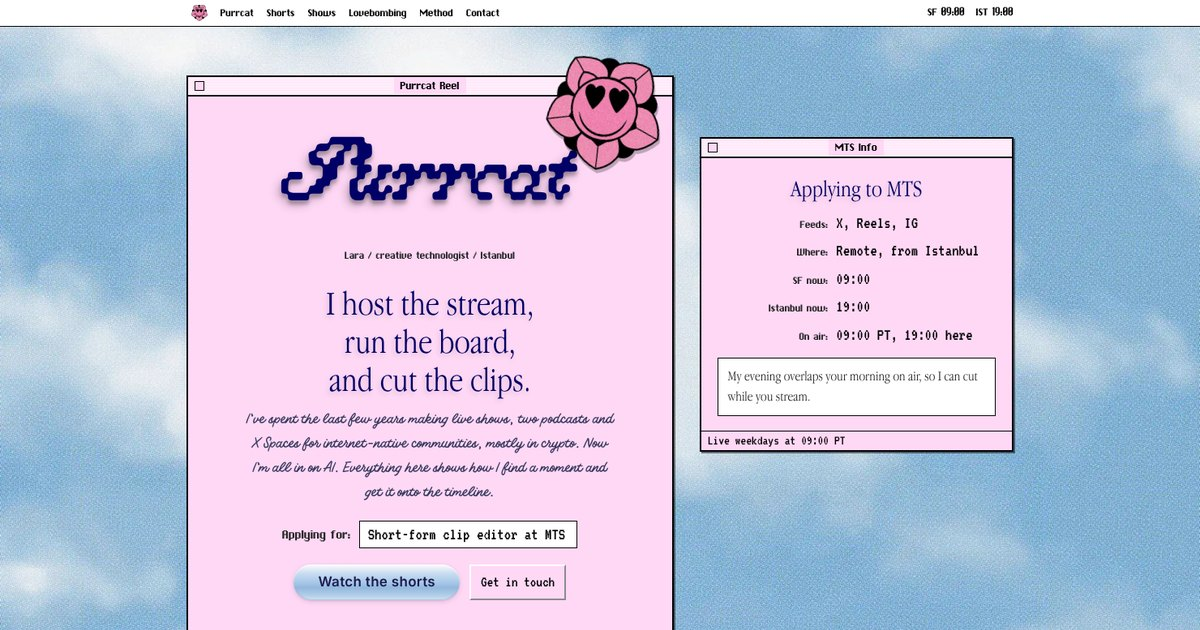
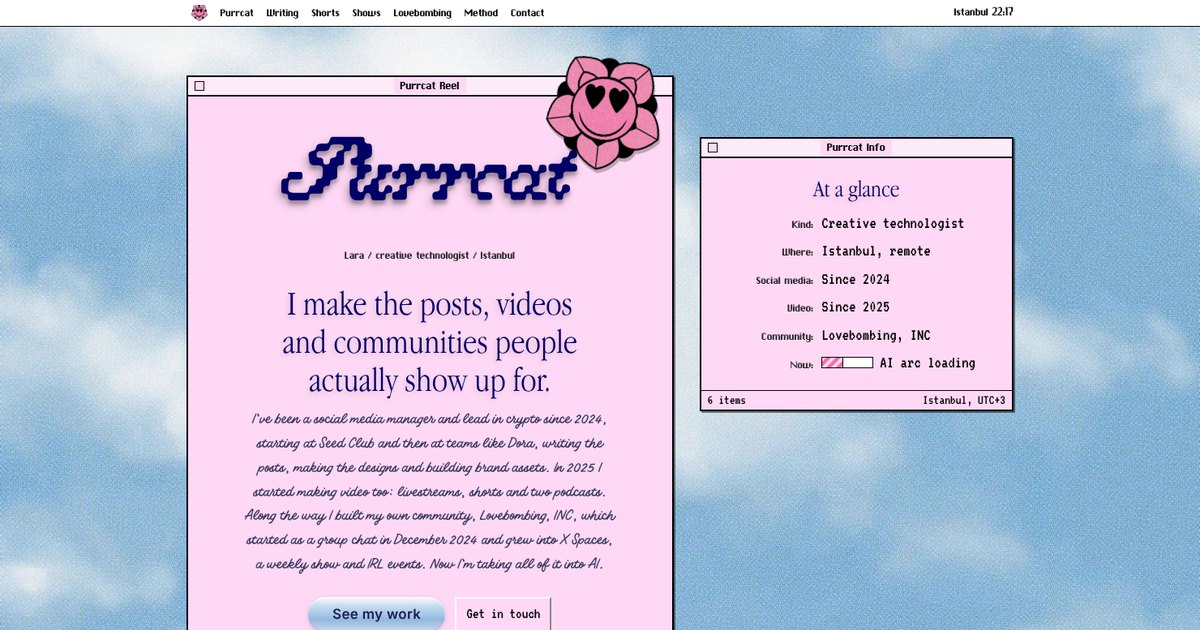
Make the site a general portfolio
Remove the MTS application parts and the clip offer, rewrite the intro, add a general At a glance panel, add a Writing section with Substack posts near the top, make the method section general, drop the Sai line, end with contact info, and refresh the link preview image.

Claude-Session: https://claude.ai/code/session_012vLfLktoEVwbfYkYAVud5t

diff --git a/index.html b/index.html
@@ -4,18 +4,18 @@
 <meta charset="utf-8">
 <meta name="viewport" content="width=device-width, initial-scale=1, viewport-fit=cover">
 <title>Purrcat Reel</title>
-<meta name="description" content="Shorts, shows, podcasts and the Lovebombing app by Purrcat, a creative technologist in Istanbul.">
+<meta name="description" content="Social media, writing, video, podcasts and community building by Purrcat, a creative technologist in Istanbul.">
 <link rel="canonical" href="https://agentic-scenester.vercel.app/">
 <meta property="og:type" content="website">
 <meta property="og:url" content="https://agentic-scenester.vercel.app/">
 <meta property="og:title" content="Purrcat Reel">
-<meta property="og:description" content="Shorts, shows, podcasts and the Lovebombing app by Purrcat, a creative technologist in Istanbul.">
+<meta property="og:description" content="Social media, writing, video, podcasts and community building by Purrcat, a creative technologist in Istanbul.">
 <meta property="og:image" content="https://agentic-scenester.vercel.app/assets/og.jpg">
 <meta property="og:image:width" content="1200">
 <meta property="og:image:height" content="630">
 <meta name="twitter:card" content="summary_large_image">
 <meta name="twitter:title" content="Purrcat Reel">
-<meta name="twitter:description" content="Shorts, shows, podcasts and the Lovebombing app by Purrcat, a creative technologist in Istanbul.">
+<meta name="twitter:description" content="Social media, writing, video, podcasts and community building by Purrcat, a creative technologist in Istanbul.">
 <meta name="twitter:image" content="https://agentic-scenester.vercel.app/assets/og.jpg">
 <meta name="theme-color" content="#87CEEB">
 <link rel="icon" type="image/png" href="assets/favicon.png">
@@ -301,7 +301,7 @@ img { max-width: 100%; }
 .who { margin: -2px 0 0; font-family: var(--font-chrome); font-size: 15px; color: var(--line); }
 .headline {
   margin: 6px 0 0;
-  max-width: 20ch;
+  max-width: 22ch;
   font-family: var(--font-serif);
   font-size: clamp(29px, 3.9vw, 43px);
   line-height: 1.1;
@@ -323,7 +323,7 @@ img { max-width: 100%; }
   text-shadow: -2px 3px 6px var(--shade-faint);
 }
 .info { margin: 0; display: grid; gap: 8px; }
-.info > div { display: grid; grid-template-columns: 7.6em minmax(0, 1fr); gap: 10px; align-items: baseline; }
+.info > div { display: grid; grid-template-columns: 6.6em minmax(0, 1fr); gap: 10px; align-items: baseline; }
 .info dt { font-family: var(--font-chrome); font-size: 15px; color: var(--line); text-align: right; }
 .info dd { margin: 0; font-family: var(--font-pixel); font-size: 21px; line-height: 1.15; color: var(--ink); overflow-wrap: anywhere; font-variant-numeric: tabular-nums; }
 .info-note { margin: 0; padding: 10px 12px; background: var(--paper); border: 1px solid var(--ink); font-size: 17px; line-height: 1.45; }
@@ -333,7 +333,7 @@ img { max-width: 100%; }
 .tl {
   display: grid;
   grid-template-columns: 44px minmax(0, 1fr);
-  grid-template-rows: 34px repeat(4, 36px);
+  grid-template-rows: 34px repeat(5, 36px);
   background: var(--paper);
 }
 .lab {
@@ -404,6 +404,7 @@ img { max-width: 100%; }
   white-space: nowrap;
 }
 .clip:hover { box-shadow: inset 0 0 0 1px var(--ink); }
+.clip.dark { color: var(--paper); }
 .clip.on { background: var(--ink); color: var(--paper); }
 .overlay { grid-column: 2; grid-row: 1 / -1; position: relative; z-index: 3; pointer-events: none; }
 .playhead { position: absolute; top: 0; bottom: 0; left: 0; width: 2px; margin-left: -1px; background: var(--hot); }
@@ -464,6 +465,55 @@ img { max-width: 100%; }
 .role { margin: 0; font-family: var(--font-chrome); font-size: 14px; color: var(--line); }
 .desc { margin: 0; font-size: 17px; line-height: 1.5; }
 .links { display: flex; flex-wrap: wrap; gap: 8px; margin-top: auto; padding-top: 8px; }
+
+/* Writing */
+.feature { display: grid; gap: 8px; padding: 18px 18px 20px; background: var(--paper); border: 1px solid var(--ink); box-shadow: 2px 2px 0 var(--shade-soft); }
+.feature h3 { margin: 0; font-family: var(--font-serif); font-size: clamp(27px, 3.6vw, 38px); line-height: 1.08; color: var(--navy); text-wrap: balance; }
+.feature h3 a { text-decoration: none; }
+.feature h3 a:hover { text-decoration: underline; text-decoration-thickness: 1px; text-underline-offset: 4px; }
+.feature .desc { max-width: 60ch; }
+.feature .links { padding-top: 6px; }
+.finder { margin-top: 18px; background: var(--paper); border: 1px solid var(--ink); box-shadow: 2px 2px 0 var(--shade-soft); }
+.flist { list-style: none; margin: 0; padding: 0; }
+.flist li + li .frow { border-top: 1px solid var(--mac-light); }
+.frow {
+  display: grid;
+  grid-template-columns: minmax(0, 1fr) 8.6em 7.4em 4.2em;
+  gap: 14px;
+  align-items: baseline;
+  padding: 11px 14px;
+  color: var(--text);
+  text-decoration: none;
+}
+.fhead { padding-block: 4px; background: var(--mac-light); border-bottom: 1px solid var(--ink); font-family: var(--font-chrome); font-size: 14px; color: var(--ink); }
+.fname { min-width: 0; font-size: 19px; line-height: 1.3; color: var(--navy); }
+.fsub { display: block; margin-top: 2px; font-size: 15px; line-height: 1.4; color: var(--prose); }
+.fkind, .fdate, .fread { font-family: var(--font-pixel); font-size: 18px; line-height: 1.2; white-space: nowrap; color: var(--line); font-variant-numeric: tabular-nums; }
+.fread { text-align: right; }
+a.frow:hover, a.frow:focus-visible { background: var(--navy); outline: none; }
+a.frow:hover span, a.frow:focus-visible span { color: var(--paper); }
+@media (max-width: 640px) {
+  .fhead { display: none; }
+  .frow { grid-template-columns: minmax(0, 1fr) auto; row-gap: 4px; }
+  .fname { grid-column: 1 / -1; }
+  .fkind { display: none; }
+}
+
+/* AI arc progress bar */
+.arc { display: inline-flex; align-items: center; gap: 8px; flex-wrap: wrap; }
+.arc-bar { position: relative; display: inline-block; width: 64px; height: 14px; background: var(--paper); border: 1px solid var(--ink); overflow: hidden; }
+.arc-bar i {
+  position: absolute;
+  top: 0;
+  bottom: 0;
+  left: 0;
+  width: 42%;
+  border-right: 1px solid var(--ink);
+  background-image: linear-gradient(-45deg, var(--hot) 25%, var(--window) 25%, var(--window) 50%, var(--hot) 50%, var(--hot) 75%, var(--window) 75%);
+  background-size: 12px 12px;
+  animation: arc 1.4s linear infinite;
+}
+@keyframes arc { from { background-position: 0 0; } to { background-position: 12px 0; } }
 
 /* Lovebombing pair */
 .pair { display: grid; gap: clamp(36px, 6vw, 56px); align-items: start; margin-top: clamp(36px, 6vw, 56px); }
@@ -531,6 +581,7 @@ img { max-width: 100%; }
 /* Off the timeline */
 .off { display: grid; gap: 18px; }
 @media (min-width: 760px) { .off { grid-template-columns: repeat(2, minmax(0, 1fr)); } }
+.off.one { grid-template-columns: minmax(0, 1fr); max-width: 760px; }
 .off > div { display: grid; gap: 8px; align-content: start; min-width: 0; padding: 16px; background: var(--paper); border: 1px solid var(--ink); box-shadow: 2px 2px 0 var(--shade-soft); }
 .off h3 { margin: 0; font-family: var(--font-serif); font-size: 24px; line-height: 1.15; color: var(--navy); }
 .off .links { margin-top: 2px; padding-top: 0; }
@@ -556,6 +607,7 @@ img { max-width: 100%; }
   html { scroll-behavior: auto; }
   .win { animation: none; }
   .caret { animation: none; }
+  .arc-bar i { animation: none; }
 }
 </style>
 </head>
@@ -567,15 +619,15 @@ img { max-width: 100%; }
     <a class="mb-logo" href="#top" aria-label="Back to top"><img src="assets/flower.webp" alt="" width="520" height="512"></a>
     <div class="mb-items">
       <a class="mb-hide-sm" href="#top">Purrcat</a>
+      <a href="#writing">Writing</a>
       <a href="#shorts">Shorts</a>
-      <a href="#shows">Shows</a>
+      <a class="mb-hide-sm" href="#shows">Shows</a>
       <a href="#lovebombing">Lovebombing</a>
       <a class="mb-hide-sm" href="#method">Method</a>
       <a href="#contact">Contact</a>
     </div>
-    <div class="mb-clock" aria-label="Time in San Francisco and Istanbul">
-      <span>SF <span id="mb-sf">--:--</span></span>
-      <span>IST <span id="mb-ist">--:--</span></span>
+    <div class="mb-clock" aria-label="Time in Istanbul">
+      <span>Istanbul <span id="mb-ist">--:--</span></span>
     </div>
   </nav>
 </header>
@@ -589,33 +641,29 @@ img { max-width: 100%; }
           <img class="sticker" src="assets/flower.webp" alt="" width="520" height="512">
           <h1 class="wordmark" id="h-top">Purrcat</h1>
           <p class="who">Lara / creative technologist / Istanbul</p>
-          <p class="headline">I host the stream, run the board, and cut the clips.</p>
-          <p class="lede">I’ve spent the last few years making live shows, two podcasts and X Spaces for internet-native communities, mostly in crypto. Now I’m all in on AI. Everything here shows how I find a moment and get it onto the timeline.</p>
-          <div class="fieldrow">
-            <span class="flabel">Applying for:</span>
-            <span class="field">Short-form clip editor at MTS<i class="caret" aria-hidden="true"></i></span>
-          </div>
+          <p class="headline">I make the posts, videos and communities people actually show up for.</p>
+          <p class="lede">I’ve been a social media manager and lead in crypto since 2024, starting at Seed Club and then at teams like Dora, writing the posts, making the designs and building brand assets. In 2025 I started making video too: livestreams, shorts and two podcasts. Along the way I built my own community, Lovebombing, INC, which started as a group chat in December 2024 and grew into X Spaces, a weekly show and IRL events. Now I’m taking all of it into AI.</p>
           <div class="actions">
-            <a class="aqua" href="#shorts">Watch the shorts</a>
+            <a class="aqua" href="#writing">See my work</a>
             <a class="mbtn" href="#contact">Get in touch</a>
           </div>
         </div>
       </section>
 
       <aside class="win win-info" aria-labelledby="h-info">
-        <div class="tbar" aria-hidden="true"><i class="box"></i><span>MTS Info</span><i class="box ghost"></i></div>
+        <div class="tbar" aria-hidden="true"><i class="box"></i><span>Purrcat Info</span><i class="box ghost"></i></div>
         <div class="info-body">
-          <h2 class="info-h" id="h-info">Applying to MTS</h2>
+          <h2 class="info-h" id="h-info">At a glance</h2>
           <dl class="info">
-            <div><dt>Feeds:</dt><dd>X, Reels, IG</dd></div>
-            <div><dt>Where:</dt><dd>Remote, from Istanbul</dd></div>
-            <div><dt>SF now:</dt><dd id="t-sf">--:--</dd></div>
-            <div><dt>Istanbul now:</dt><dd id="t-ist">--:--</dd></div>
-            <div><dt>On air:</dt><dd>09:00 PT, <span id="air-ist">19:00</span> here</dd></div>
+            <div><dt>Kind:</dt><dd>Creative technologist</dd></div>
+            <div><dt>Where:</dt><dd>Istanbul, remote</dd></div>
+            <div><dt>Social media:</dt><dd>Since 2024</dd></div>
+            <div><dt>Video:</dt><dd>Since 2025</dd></div>
+            <div><dt>Community:</dt><dd>Lovebombing, INC</dd></div>
+            <div><dt>Now:</dt><dd><span class="arc"><span class="arc-bar" aria-hidden="true"><i></i></span>AI arc loading</span></dd></div>
           </dl>
-          <p class="info-note">My evening overlaps your morning on air, so I can cut while you stream.</p>
         </div>
-        <div class="sbar"><span>Live weekdays at 09:00 PT</span></div>
+        <div class="sbar"><span>6 items</span><span>Istanbul, UTC+3</span></div>
       </aside>
     </div>
 
@@ -631,28 +679,32 @@ img { max-width: 100%; }
           <span class="tick" style="--x:66.6667" aria-hidden="true">00:40</span>
           <span class="tick minor" style="--x:83.3333" aria-hidden="true">00:50</span>
           <span class="tick last" style="--x:100" aria-hidden="true">01:00</span>
-          <a class="mark" href="#method" style="--x:20" aria-label="Moment marker: how I'd cut MTS"></a>
-          <a class="mark" href="#method" style="--x:62" aria-label="Moment marker: how I'd cut MTS"></a>
-          <a class="mark" href="#method" style="--x:76" aria-label="Moment marker: how I'd cut MTS"></a>
+          <a class="mark" href="#method" style="--x:18" aria-label="Moment marker: how I work"></a>
+          <a class="mark" href="#method" style="--x:50" aria-label="Moment marker: how I work"></a>
+          <a class="mark" href="#method" style="--x:78" aria-label="Moment marker: how I work"></a>
         </div>
 
-        <div class="lab" style="grid-row:2">V2</div>
+        <div class="lab" style="grid-row:2">T1</div>
         <div class="lane" style="grid-row:2">
-          <a class="clip" href="#shorts" style="--s:6;--e:34;--tc:var(--hot)" data-s="6" data-e="34">Shorts</a>
-          <a class="clip" href="#lovebombing" style="--s:54;--e:72;--tc:var(--window)" data-s="54" data-e="72">App</a>
+          <a class="clip dark" href="#writing" style="--s:6;--e:28;--tc:var(--navy)" data-s="6" data-e="28">Writing</a>
         </div>
-        <div class="lab" style="grid-row:3">V1</div>
+        <div class="lab" style="grid-row:3">V2</div>
         <div class="lane" style="grid-row:3">
-          <a class="clip" href="#shows" style="--s:30;--e:52;--tc:var(--steel)" data-s="30" data-e="52">Shows</a>
-          <a class="clip" href="#offline" style="--s:80;--e:100;--tc:var(--mac-silver)" data-s="80" data-e="100">IRL</a>
+          <a class="clip" href="#shorts" style="--s:26;--e:42;--tc:var(--hot)" data-s="26" data-e="42">Shorts</a>
+          <a class="clip" href="#lovebombing" style="--s:58;--e:74;--tc:var(--window)" data-s="58" data-e="74">App</a>
         </div>
-        <div class="lab" style="grid-row:4">A1</div>
+        <div class="lab" style="grid-row:4">V1</div>
         <div class="lane" style="grid-row:4">
-          <a class="clip" href="#shows" style="--s:32;--e:54;--tc:var(--sky)" data-s="32" data-e="54">Podcasts</a>
+          <a class="clip" href="#shows" style="--s:40;--e:56;--tc:var(--steel)" data-s="40" data-e="56">Shows</a>
+          <a class="clip" href="#offline" style="--s:82;--e:96;--tc:var(--mac-silver)" data-s="82" data-e="96">IRL</a>
         </div>
-        <div class="lab" style="grid-row:5">A2</div>
+        <div class="lab" style="grid-row:5">A1</div>
         <div class="lane" style="grid-row:5">
-          <a class="clip" href="#lovebombing" style="--s:50;--e:70;--tc:var(--window)" data-s="50" data-e="70">Spaces</a>
+          <a class="clip" href="#shows" style="--s:42;--e:58;--tc:var(--sky)" data-s="42" data-e="58">Podcasts</a>
+        </div>
+        <div class="lab" style="grid-row:6">A2</div>
+        <div class="lane" style="grid-row:6">
+          <a class="clip" href="#lovebombing" style="--s:54;--e:72;--tc:var(--window)" data-s="54" data-e="72">Spaces</a>
         </div>
 
         <div class="overlay" aria-hidden="true"><div class="playhead" id="playhead"></div></div>
@@ -662,6 +714,36 @@ img { max-width: 100%; }
   </div>
 
   <div class="wrap">
+    <section class="win sec" id="writing" aria-labelledby="h-writing">
+      <div class="tbar" aria-hidden="true"><i class="box"></i><span>Purrcat Purring</span><i class="box ghost"></i></div>
+      <div class="sec-body">
+        <header class="sec-head">
+          <h2 id="h-writing">Writing</h2>
+          <p class="sec-intro">Essays and short pieces on AI, work, creativity and life in between, from my Substack, Purrcat Purring.</p>
+        </header>
+        <article class="feature">
+          <p class="role">Featured essay / Apr 22, 2026 / 13 min read</p>
+          <h3><a href="https://purrcat.substack.com/p/having-a-job-like-rick-rubin-in-the" target="_blank" rel="noopener">AI and learning how to dream again</a></h3>
+          <p class="desc">On the genie lamp problem, the death of the how, and why knowing what you want is the only skill left.</p>
+          <div class="links"><a class="aqua" href="https://purrcat.substack.com/p/having-a-job-like-rick-rubin-in-the" target="_blank" rel="noopener">Read the essay</a></div>
+        </article>
+        <div class="finder">
+          <div class="frow fhead" aria-hidden="true"><span>Name</span><span>Kind</span><span>Date</span><span>Read</span></div>
+          <ul class="flist" aria-label="More posts from Purrcat Purring">
+            <li><a class="frow" href="https://purrcat.substack.com/p/summer-rain-with-commas-and-the-earthy" target="_blank" rel="noopener"><span class="fname">Summer rain with commas and the earthy smell after the rain</span><span class="fkind">Short piece</span><span class="fdate">Jul 4, 2026</span><span class="fread">3 min</span></a></li>
+            <li><a class="frow" href="https://purrcat.substack.com/p/on-what-sings-and-untouched" target="_blank" rel="noopener"><span class="fname">On what sings and “Untouched”<span class="fsub">About the music of my life</span></span><span class="fkind">Short piece</span><span class="fdate">Jul 3, 2026</span><span class="fread">1 min</span></a></li>
+            <li><a class="frow" href="https://purrcat.substack.com/p/nothing-new-can-find-you-while-your" target="_blank" rel="noopener"><span class="fname">Nothing new can find you while your hands are full<span class="fsub">On quitting, sunk cost fallacy, and why manifestation needs empty hands.</span></span><span class="fkind">Essay</span><span class="fdate">Mar 21, 2026</span><span class="fread">13 min</span></a></li>
+            <li><a class="frow" href="https://purrcat.substack.com/p/finding-joy-in-between-advice-session" target="_blank" rel="noopener"><span class="fname">Finding Joy in Between<span class="fsub">You can be joyful and in between.</span></span><span class="fkind">Advice session</span><span class="fdate">Mar 2, 2026</span><span class="fread">19 min</span></a></li>
+            <li><a class="frow" href="https://purrcat.substack.com/p/first-podcast-or-stream-of-consciousness" target="_blank" rel="noopener"><span class="fname">First podcast or stream of consciousness in HK<span class="fsub">Your unemployed friend on a Wednesday afternoon but make it real.</span></span><span class="fkind">Essay</span><span class="fdate">Feb 19, 2026</span><span class="fread">12 min</span></a></li>
+            <li><a class="frow" href="https://purrcat.substack.com/p/magick" target="_blank" rel="noopener"><span class="fname">Magick</span><span class="fkind">Short piece</span><span class="fdate">Oct 15, 2025</span><span class="fread">1 min</span></a></li>
+            <li><a class="frow" href="https://purrcat.substack.com/p/new-romance" target="_blank" rel="noopener"><span class="fname">New romance</span><span class="fkind">Short piece</span><span class="fdate">Jun 6, 2025</span><span class="fread">1 min</span></a></li>
+          </ul>
+        </div>
+        <div class="links after"><a class="mbtn" href="https://purrcat.substack.com" target="_blank" rel="noopener">Subscribe on Substack <i class="ext" aria-hidden="true"></i></a></div>
+      </div>
+      <div class="sbar"><span>8 posts</span><span>Track T1</span></div>
+    </section>
+
     <section class="win sec" id="shorts" aria-labelledby="h-shorts">
       <div class="tbar" aria-hidden="true"><i class="box"></i><span>Shorts</span><i class="box ghost"></i></div>
       <div class="sec-body">
@@ -791,18 +873,18 @@ img { max-width: 100%; }
       <div class="sec-body">
         <div class="method">
           <div class="method-intro">
-            <h2 id="h-method">How I’d cut MTS</h2>
-            <p class="sec-intro">A daily show makes hours of great talk. The job is finding the forty seconds people will quote, and getting them out while the topic is still moving.</p>
+            <h2 id="h-method">How I work</h2>
+            <p class="sec-intro">Good content starts with paying attention. I watch what people react to, then build the post, the clip or the room around it.</p>
             <div class="kit" aria-label="Tools I use">
               <span class="chip">OBS</span><span class="chip">Restream</span><span class="chip">CapCut</span><span class="chip">Descript</span><span class="chip">Canva</span><span class="chip">Adobe Firefly</span><span class="chip">Figma</span><span class="chip">Claude Code</span><span class="chip">Sony ZV-E10</span><span class="chip">DJI Osmo Pocket 3</span><span class="chip">Elgato Cam Link 4K</span>
             </div>
           </div>
           <ol class="steps">
-            <li><div class="n"><i class="hrt" aria-hidden="true"></i>1</div><div><strong>Watch it live</strong><p>I mark moments as they happen: a sharp claim, a laugh, a take people will argue about.</p></div></li>
-            <li><div class="n"><i class="hrt" aria-hidden="true"></i>2</div><div><strong>Start on the idea</strong><p>The clip opens on the sentence that carries it, with no warm-up in front.</p></div></li>
-            <li><div class="n"><i class="hrt" aria-hidden="true"></i>3</div><div><strong>Caption it like a post</strong><p>On-screen words sound like a person on the timeline, so the clip works with the sound off.</p></div></li>
-            <li><div class="n"><i class="hrt" aria-hidden="true"></i>4</div><div><strong>Cut for each feed</strong><p>16:9 or square with burned-in captions for X, and 9:16 for Reels and IG.</p></div></li>
-            <li><div class="n"><i class="hrt" aria-hidden="true"></i>5</div><div><strong>Ship while it’s hot</strong><p>A daily show runs on the timeline’s clock, so speed is part of the edit.</p></div></li>
+            <li><div class="n"><i class="hrt" aria-hidden="true"></i>1</div><div><strong>Live on the timeline</strong><p>I follow conversations as they happen and notice what people actually care about.</p></div></li>
+            <li><div class="n"><i class="hrt" aria-hidden="true"></i>2</div><div><strong>Lead with the idea</strong><p>Every post, clip and thread opens on the thing that matters, with no warm-up in front.</p></div></li>
+            <li><div class="n"><i class="hrt" aria-hidden="true"></i>3</div><div><strong>Write like a person</strong><p>Copy that sounds like someone on the timeline, not like a brand account.</p></div></li>
+            <li><div class="n"><i class="hrt" aria-hidden="true"></i>4</div><div><strong>Fit each platform</strong><p>X, Reels, YouTube and Spotify each get their own cut, format and caption.</p></div></li>
+            <li><div class="n"><i class="hrt" aria-hidden="true"></i>5</div><div><strong>Build the room</strong><p>Spaces, group chats and IRL events turn an audience into regulars.</p></div></li>
           </ol>
         </div>
       </div>
@@ -813,20 +895,14 @@ img { max-width: 100%; }
       <div class="tbar" aria-hidden="true"><i class="box"></i><span>IRL</span><i class="box ghost"></i></div>
       <div class="sec-body">
         <header class="sec-head"><h2 id="h-off">Off the timeline</h2></header>
-        <div class="off">
+        <div class="off one">
           <div>
             <p class="role">IRL</p>
             <h3>Conference side events</h3>
             <p class="desc">Sponsorships and side events at Token2049, Devcon, Devconnect, Consensus, EthCC, ETH Denver and Solana Breakpoint since 2022, including a prediction markets workshop in Argentina before Devconnect.</p>
           </div>
-          <div>
-            <p class="role">Writing</p>
-            <h3>Essays on Substack</h3>
-            <p class="desc">Longer pieces about work, culture and life between chapters.</p>
-            <div class="links"><a class="mbtn" href="https://substack.com/@purrcat" target="_blank" rel="noopener">Substack <i class="ext" aria-hidden="true"></i></a></div>
-          </div>
         </div>
-        <p class="also">Also: a beginner trading video series I made as Purrcat for Sai, a perpetual trading platform, and video edits, animations and social kits for Dora.</p>
+        <p class="also">Also: video edits, animations and social kits for Dora.</p>
       </div>
       <div class="sbar"><span>Since 2022</span><span>Track V1</span></div>
     </section>
@@ -834,7 +910,7 @@ img { max-width: 100%; }
     <section class="win sec" id="contact" aria-labelledby="h-contact">
       <div class="tbar" aria-hidden="true"><i class="box"></i><span>Contact</span><i class="box ghost"></i></div>
       <div class="sec-body contact-body">
-        <h2 id="h-contact">Send me an episode. I’ll send back clips.</h2>
+        <h2 id="h-contact">Get in touch</h2>
         <p class="sec-intro">DMs on X are fastest. Email works too.</p>
         <div class="fieldrow">
           <span class="flabel">Email:</span>
@@ -845,7 +921,7 @@ img { max-width: 100%; }
           <a class="mbtn" href="https://x.com/peaceofd0ve" target="_blank" rel="noopener">@peaceofd0ve on X <i class="ext" aria-hidden="true"></i></a>
           <a class="mbtn" href="https://www.youtube.com/@PurrcatLara" target="_blank" rel="noopener">YouTube <i class="ext" aria-hidden="true"></i></a>
           <a class="mbtn" href="https://www.instagram.com/larapurrcat/" target="_blank" rel="noopener">Instagram <i class="ext" aria-hidden="true"></i></a>
-          <a class="mbtn" href="https://substack.com/@purrcat" target="_blank" rel="noopener">Substack <i class="ext" aria-hidden="true"></i></a>
+          <a class="mbtn" href="https://purrcat.substack.com" target="_blank" rel="noopener">Substack <i class="ext" aria-hidden="true"></i></a>
           <a class="mbtn" href="https://github.com/purrcateth" target="_blank" rel="noopener">GitHub <i class="ext" aria-hidden="true"></i></a>
           <a class="mbtn" href="https://purrcat.notion.site/" target="_blank" rel="noopener">CV <i class="ext" aria-hidden="true"></i></a>
         </div>
@@ -869,26 +945,11 @@ img { max-width: 100%; }
   const setText = (id, v) => { const el = byId(id); if (el) el.textContent = v; };
   const pad = (n) => String(n).padStart(2, '0');
 
-  /* Clocks and air time */
-  function offsetMin(tz, d) {
-    const parts = new Intl.DateTimeFormat('en-US', {
-      timeZone: tz, hourCycle: 'h23', year: 'numeric', month: '2-digit', day: '2-digit',
-      hour: '2-digit', minute: '2-digit', second: '2-digit'
-    }).formatToParts(d);
-    const g = (t) => Number(parts.find((p) => p.type === t).value);
-    const asUTC = Date.UTC(g('year'), g('month') - 1, g('day'), g('hour'), g('minute'), g('second'));
-    return Math.round((asUTC - d.getTime()) / 60000);
-  }
+  /* Istanbul clock in the menu bar */
   function tick() {
     const now = new Date();
-    const f = (tz) => new Intl.DateTimeFormat('en-GB', { hour: '2-digit', minute: '2-digit', hourCycle: 'h23', timeZone: tz }).format(now);
-    const sf = f('America/Los_Angeles');
-    const ist = f('Europe/Istanbul');
-    setText('t-sf', sf); setText('mb-sf', sf);
-    setText('t-ist', ist); setText('mb-ist', ist);
-    const diff = offsetMin('Europe/Istanbul', now) - offsetMin('America/Los_Angeles', now);
-    const m = (((9 * 60 + diff) % 1440) + 1440) % 1440;
-    setText('air-ist', pad(Math.floor(m / 60)) + ':' + pad(m % 60));
+    const ist = new Intl.DateTimeFormat('en-GB', { hour: '2-digit', minute: '2-digit', hourCycle: 'h23', timeZone: 'Europe/Istanbul' }).format(now);
+    setText('mb-ist', ist);
   }
   try { tick(); setInterval(tick, 20000); } catch (e) { /* static fallback stays */ }
 
